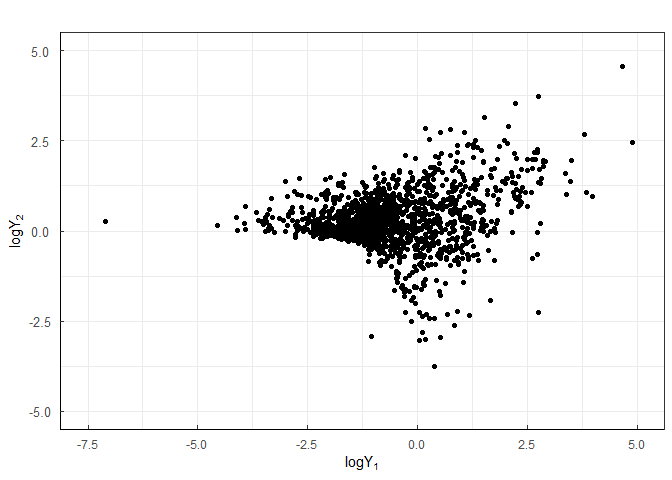
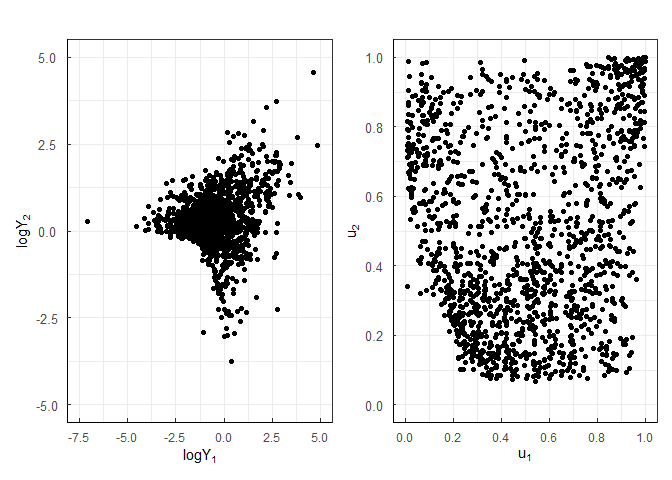
v2
v2

diff --git a/README.md b/README.md
@@ -134,12 +134,8 @@ p1 <- ggplot(data = dtplot, mapping = aes(y = logY1,
   scale_y_continuous(limits = c(-5, 5),
                      breaks = seq(-5, 5, by = 2.5))
 
-p1
-```
 
-<img src="man/figures/README-unnamed-chunk-5-1.png" width="100%" />
 
-``` r
 p2 <- ggplot(data = dtplot, mapping = aes(y = U2, 
                                            x = U1)) + 
   newtheme +
@@ -152,12 +148,7 @@ p2 <- ggplot(data = dtplot, mapping = aes(y = U2,
   scale_y_continuous(limits = c(0, 1),
                      breaks = seq(0, 1, by = 0.2))
 
-p2
-```
 
-<img src="man/figures/README-unnamed-chunk-5-2.png" width="100%" />
-
-``` r
 library(patchwork)
 #> 
 #> 载入程辑包：'patchwork'
@@ -168,7 +159,7 @@ p0 <- p1 + p2 + plot_layout(ncol = 2)
 p0
 ```
 
-<img src="man/figures/README-unnamed-chunk-5-3.png" width="100%" />
+<img src="man/figures/README-unnamed-chunk-5-1.png" width="100%" />
 
 This table reports the estimation results, AIC and BIC values of the
 survival MGL and the survival MGL-EV copula, along with four other
